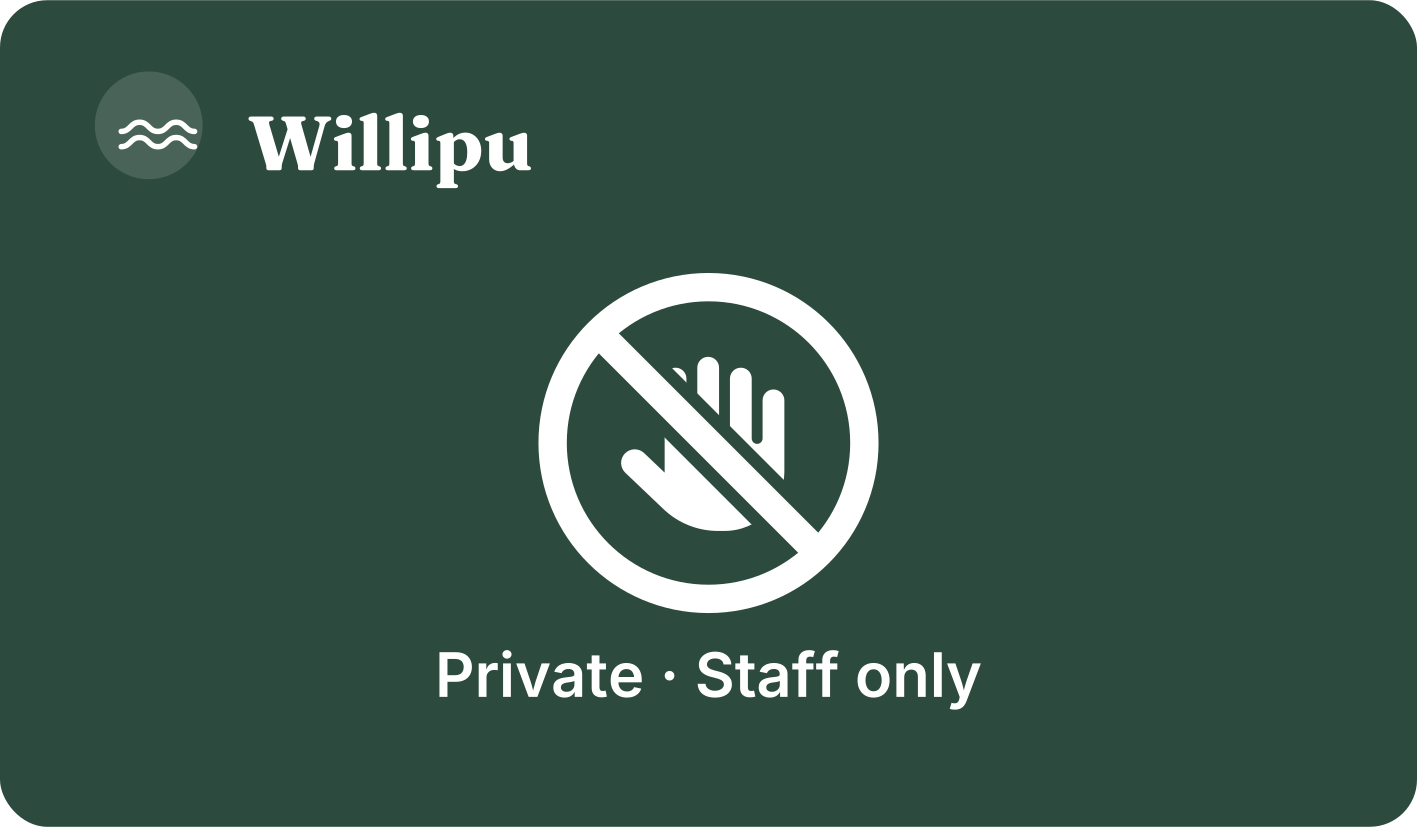
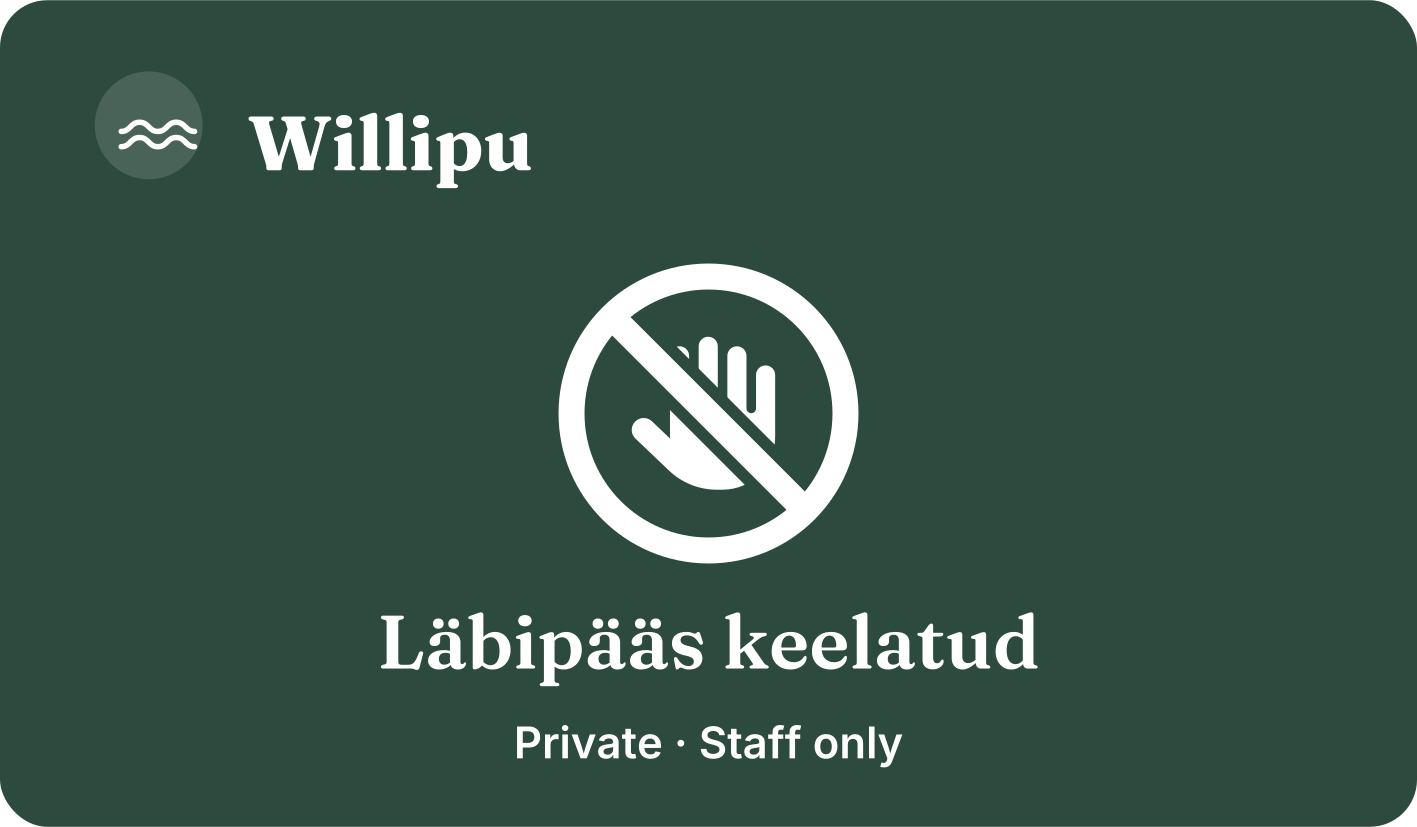
Uksesilt: „Privaatruum" asemel „Läbipääs keelatud"
https://claude.ai/code/session_01DAokWKEoiBPxSJTSGSSjnQ

diff --git a/public/turundus/index.html b/public/turundus/index.html
@@ -70,7 +70,7 @@
   <main>
     <h1>Turundusmaterjalid</h1>
     <p class="intro">Logod, bännerid, reklaamid ja QR-kleebised allalaadimiseks. Leht pole avalikult lingitud ega otsingumootoritele nähtav — jaga ainult otselinki.</p>
-    <section><h2>Logod <small>Logo files</small></h2><a class="file" href="willipu_logo.svg" download="willipu_logo.svg"><span class="thumb"><span class="ext">SVG</span></span><span class="meta"><strong>Logo, värviline — vektor (SVG)</strong><small>willipu_logo.svg · 2 KB</small></span><span class="dl">⬇</span></a><a class="file" href="willipu_logo_white.svg" download="willipu_logo_white.svg"><span class="thumb"><span class="ext">SVG</span></span><span class="meta"><strong>Logo, valge — vektor (SVG)</strong><small>willipu_logo_white.svg · 2 KB</small></span><span class="dl">⬇</span></a><a class="file" href="willipu_logo.pdf" download="willipu_logo.pdf"><span class="thumb"><span class="ext">PDF</span></span><span class="meta"><strong>Logo — vektor (PDF)</strong><small>willipu_logo.pdf · 3 KB</small></span><span class="dl">⬇</span></a><a class="file" href="willipu_logo.png" download="willipu_logo.png"><span class="thumb"><img src="willipu_logo.png" loading="lazy" alt=""></span><span class="meta"><strong>Logo, värviline — läbipaistev PNG</strong><small>willipu_logo.png · 28 KB</small></span><span class="dl">⬇</span></a><a class="file" href="willipu_logo_white.png" download="willipu_logo_white.png"><span class="thumb"><img src="willipu_logo_white.png" loading="lazy" alt=""></span><span class="meta"><strong>Logo, valge — läbipaistev PNG</strong><small>willipu_logo_white.png · 24 KB</small></span><span class="dl">⬇</span></a></section><section><h2>Bännerid <small>Print banners · 2200×1000 mm</small></h2><a class="file" href="willipu_banner_2200x1000.pdf" download="willipu_banner_2200x1000.pdf"><span class="thumb"><span class="ext">PDF</span></span><span class="meta"><strong>Suur bänner 1 — trükifail (PDF)</strong><small>willipu_banner_2200x1000.pdf · 391 KB</small></span><span class="dl">⬇</span></a><a class="file" href="willipu_banner_2.pdf" download="willipu_banner_2.pdf"><span class="thumb"><span class="ext">PDF</span></span><span class="meta"><strong>Suur bänner 2 — trükifail (PDF)</strong><small>willipu_banner_2.pdf · 413 KB</small></span><span class="dl">⬇</span></a></section><section><h2>Facebook <small>Social media images</small></h2><a class="file" href="willipu_facebook_cover.jpg" download="willipu_facebook_cover.jpg"><span class="thumb"><img src="willipu_facebook_cover.jpg" loading="lazy" alt=""></span><span class="meta"><strong>Kaanefoto · 1640×624</strong><small>willipu_facebook_cover.jpg · 277 KB</small></span><span class="dl">⬇</span></a><a class="file" href="willipu_facebook_profile.jpg" download="willipu_facebook_profile.jpg"><span class="thumb"><img src="willipu_facebook_profile.jpg" loading="lazy" alt=""></span><span class="meta"><strong>Profiilipilt · 800×800</strong><small>willipu_facebook_profile.jpg · 63 KB</small></span><span class="dl">⬇</span></a><a class="file" href="willipu_fb_ad_1080.jpg" download="willipu_fb_ad_1080.jpg"><span class="thumb"><img src="willipu_fb_ad_1080.jpg" loading="lazy" alt=""></span><span class="meta"><strong>Reklaam · 1080×1080</strong><small>willipu_fb_ad_1080.jpg · 299 KB</small></span><span class="dl">⬇</span></a><a class="file" href="willipu_fb_ad_karavan.jpg" download="willipu_fb_ad_karavan.jpg"><span class="thumb"><img src="willipu_fb_ad_karavan.jpg" loading="lazy" alt=""></span><span class="meta"><strong>Karavani reklaam · 1080×1350</strong><small>willipu_fb_ad_karavan.jpg · 300 KB</small></span><span class="dl">⬇</span></a><a class="file" href="willipu_fb_ad_kar1.jpg" download="willipu_fb_ad_kar1.jpg"><span class="thumb"><img src="willipu_fb_ad_kar1.jpg" loading="lazy" alt=""></span><span class="meta"><strong>Karavani reklaam, taust 1 · 1080×1350</strong><small>willipu_fb_ad_kar1.jpg · 301 KB</small></span><span class="dl">⬇</span></a><a class="file" href="willipu_fb_ad_kar2.jpg" download="willipu_fb_ad_kar2.jpg"><span class="thumb"><img src="willipu_fb_ad_kar2.jpg" loading="lazy" alt=""></span><span class="meta"><strong>Karavani reklaam, taust 2 · 1080×1350</strong><small>willipu_fb_ad_kar2.jpg · 282 KB</small></span><span class="dl">⬇</span></a><a class="file" href="willipu_fb_ad_kar3.jpg" download="willipu_fb_ad_kar3.jpg"><span class="thumb"><img src="willipu_fb_ad_kar3.jpg" loading="lazy" alt=""></span><span class="meta"><strong>Karavani reklaam, taust 3 · 1080×1350</strong><small>willipu_fb_ad_kar3.jpg · 442 KB</small></span><span class="dl">⬇</span></a></section><section><h2>QR-kleebised · Pesumasin <small>willipu.ee/wash → juhend/pesumasin/</small></h2><a class="file" href="willipu_kleebis_pesumasin.pdf" download="willipu_kleebis_pesumasin.pdf"><span class="thumb"><span class="ext">PDF</span></span><span class="meta"><strong>Kleebis 120×120 mm — trükifail (vektor-PDF)</strong><small>willipu_kleebis_pesumasin.pdf · 60 KB</small></span><span class="dl">⬇</span></a><a class="file" href="willipu_kleebis_pesumasin.svg" download="willipu_kleebis_pesumasin.svg"><span class="thumb"><span class="ext">SVG</span></span><span class="meta"><strong>Kleebis — vektor (SVG)</strong><small>willipu_kleebis_pesumasin.svg · 79 KB</small></span><span class="dl">⬇</span></a><a class="file" href="willipu_kleebis_pesumasin.png" download="willipu_kleebis_pesumasin.png"><span class="thumb"><img src="willipu_kleebis_pesumasin.png" loading="lazy" alt=""></span><span class="meta"><strong>Kleebis — eelvaade (PNG, 300 dpi)</strong><small>willipu_kleebis_pesumasin.png · 68 KB</small></span><span class="dl">⬇</span></a><a class="file" href="willipu_qr_pesumasin.svg" download="willipu_qr_pesumasin.svg"><span class="thumb"><span class="ext">SVG</span></span><span class="meta"><strong>Ainult QR-kood — vektor (SVG)</strong><small>willipu_qr_pesumasin.svg · 14 KB</small></span><span class="dl">⬇</span></a><a class="file" href="willipu_qr_pesumasin.png" download="willipu_qr_pesumasin.png"><span class="thumb"><img src="willipu_qr_pesumasin.png" loading="lazy" alt=""></span><span class="meta"><strong>Ainult QR-kood (PNG)</strong><small>willipu_qr_pesumasin.png · 4 KB</small></span><span class="dl">⬇</span></a></section><section><h2>QR-kleebised · Pesukuivati <small>willipu.ee/dry → juhend/pesukuivati/</small></h2><a class="file" href="willipu_kleebis_pesukuivati.pdf" download="willipu_kleebis_pesukuivati.pdf"><span class="thumb"><span class="ext">PDF</span></span><span class="meta"><strong>Kleebis 120×120 mm — trükifail (vektor-PDF)</strong><small>willipu_kleebis_pesukuivati.pdf · 57 KB</small></span><span class="dl">⬇</span></a><a class="file" href="willipu_kleebis_pesukuivati.svg" download="willipu_kleebis_pesukuivati.svg"><span class="thumb"><span class="ext">SVG</span></span><span class="meta"><strong>Kleebis — vektor (SVG)</strong><small>willipu_kleebis_pesukuivati.svg · 76 KB</small></span><span class="dl">⬇</span></a><a class="file" href="willipu_kleebis_pesukuivati.png" download="willipu_kleebis_pesukuivati.png"><span class="thumb"><img src="willipu_kleebis_pesukuivati.png" loading="lazy" alt=""></span><span class="meta"><strong>Kleebis — eelvaade (PNG, 300 dpi)</strong><small>willipu_kleebis_pesukuivati.png · 68 KB</small></span><span class="dl">⬇</span></a><a class="file" href="willipu_qr_pesukuivati.svg" download="willipu_qr_pesukuivati.svg"><span class="thumb"><span class="ext">SVG</span></span><span class="meta"><strong>Ainult QR-kood — vektor (SVG)</strong><small>willipu_qr_pesukuivati.svg · 14 KB</small></span><span class="dl">⬇</span></a><a class="file" href="willipu_qr_pesukuivati.png" download="willipu_qr_pesukuivati.png"><span class="thumb"><img src="willipu_qr_pesukuivati.png" loading="lazy" alt=""></span><span class="meta"><strong>Ainult QR-kood (PNG)</strong><small>willipu_qr_pesukuivati.png · 4 KB</small></span><span class="dl">⬇</span></a></section><section><h2>QR-kleebised · Saun <small>willipu.ee/juhend/saun/</small></h2><a class="file" href="willipu_kleebis_saun.pdf" download="willipu_kleebis_saun.pdf"><span class="thumb"><span class="ext">PDF</span></span><span class="meta"><strong>Kleebis 80×100 mm — trükifail (vektor-PDF)</strong><small>willipu_kleebis_saun.pdf · 35 KB</small></span><span class="dl">⬇</span></a><a class="file" href="willipu_kleebis_saun.svg" download="willipu_kleebis_saun.svg"><span class="thumb"><span class="ext">SVG</span></span><span class="meta"><strong>Kleebis — vektor (SVG)</strong><small>willipu_kleebis_saun.svg · 52 KB</small></span><span class="dl">⬇</span></a><a class="file" href="willipu_kleebis_saun.png" download="willipu_kleebis_saun.png"><span class="thumb"><img src="willipu_kleebis_saun.png" loading="lazy" alt=""></span><span class="meta"><strong>Kleebis — eelvaade (PNG, 300 dpi)</strong><small>willipu_kleebis_saun.png · 35 KB</small></span><span class="dl">⬇</span></a><a class="file" href="willipu_qr_saun.svg" download="willipu_qr_saun.svg"><span class="thumb"><span class="ext">SVG</span></span><span class="meta"><strong>Ainult QR-kood — vektor (SVG)</strong><small>willipu_qr_saun.svg · 19 KB</small></span><span class="dl">⬇</span></a><a class="file" href="willipu_qr_saun.png" download="willipu_qr_saun.png"><span class="thumb"><img src="willipu_qr_saun.png" loading="lazy" alt=""></span><span class="meta"><strong>Ainult QR-kood (PNG)</strong><small>willipu_qr_saun.png · 4 KB</small></span><span class="dl">⬇</span></a></section><section><h2>Uksesildid · Privaatruum <small>Door signs · 120×70 mm</small></h2><a class="file" href="willipu_kleebis_privaatruum.pdf" download="willipu_kleebis_privaatruum.pdf"><span class="thumb"><span class="ext">PDF</span></span><span class="meta"><strong>Privaatruumi uksesilt 120×70 mm — trükifail (vektor-PDF)</strong><small>willipu_kleebis_privaatruum.pdf · 11 KB</small></span><span class="dl">⬇</span></a><a class="file" href="willipu_kleebis_privaatruum.svg" download="willipu_kleebis_privaatruum.svg"><span class="thumb"><span class="ext">SVG</span></span><span class="meta"><strong>Privaatruumi uksesilt — vektor (SVG)</strong><small>willipu_kleebis_privaatruum.svg · 13 KB</small></span><span class="dl">⬇</span></a><a class="file" href="willipu_kleebis_privaatruum.png" download="willipu_kleebis_privaatruum.png"><span class="thumb"><img src="willipu_kleebis_privaatruum.png" loading="lazy" alt=""></span><span class="meta"><strong>Privaatruumi uksesilt — eelvaade (PNG, 300 dpi)</strong><small>willipu_kleebis_privaatruum.png · 52 KB</small></span><span class="dl">⬇</span></a></section><section><h2>Infotahvlid <small>Info boards · A3, 297×420 mm</small></h2><a class="file" href="willipu_tahvel_purgimine.pdf" download="willipu_tahvel_purgimine.pdf"><span class="thumb"><span class="ext">PDF</span></span><span class="meta"><strong>Purgimisplatsi infotahvel A3 — trükifail (vektor-PDF)</strong><small>willipu_tahvel_purgimine.pdf · 99 KB</small></span><span class="dl">⬇</span></a><a class="file" href="willipu_tahvel_purgimine.svg" download="willipu_tahvel_purgimine.svg"><span class="thumb"><span class="ext">SVG</span></span><span class="meta"><strong>Purgimisplatsi infotahvel — vektor (SVG)</strong><small>willipu_tahvel_purgimine.svg · 118 KB</small></span><span class="dl">⬇</span></a><a class="file" href="willipu_tahvel_purgimine.png" download="willipu_tahvel_purgimine.png"><span class="thumb"><img src="willipu_tahvel_purgimine.png" loading="lazy" alt=""></span><span class="meta"><strong>Purgimisplatsi infotahvel — eelvaade (PNG)</strong><small>willipu_tahvel_purgimine.png · 167 KB</small></span><span class="dl">⬇</span></a></section><section><h2>Piktogrammid <small>Site pictograms · 19 tk, SVG + PNG</small></h2>
+    <section><h2>Logod <small>Logo files</small></h2><a class="file" href="willipu_logo.svg" download="willipu_logo.svg"><span class="thumb"><span class="ext">SVG</span></span><span class="meta"><strong>Logo, värviline — vektor (SVG)</strong><small>willipu_logo.svg · 2 KB</small></span><span class="dl">⬇</span></a><a class="file" href="willipu_logo_white.svg" download="willipu_logo_white.svg"><span class="thumb"><span class="ext">SVG</span></span><span class="meta"><strong>Logo, valge — vektor (SVG)</strong><small>willipu_logo_white.svg · 2 KB</small></span><span class="dl">⬇</span></a><a class="file" href="willipu_logo.pdf" download="willipu_logo.pdf"><span class="thumb"><span class="ext">PDF</span></span><span class="meta"><strong>Logo — vektor (PDF)</strong><small>willipu_logo.pdf · 3 KB</small></span><span class="dl">⬇</span></a><a class="file" href="willipu_logo.png" download="willipu_logo.png"><span class="thumb"><img src="willipu_logo.png" loading="lazy" alt=""></span><span class="meta"><strong>Logo, värviline — läbipaistev PNG</strong><small>willipu_logo.png · 28 KB</small></span><span class="dl">⬇</span></a><a class="file" href="willipu_logo_white.png" download="willipu_logo_white.png"><span class="thumb"><img src="willipu_logo_white.png" loading="lazy" alt=""></span><span class="meta"><strong>Logo, valge — läbipaistev PNG</strong><small>willipu_logo_white.png · 24 KB</small></span><span class="dl">⬇</span></a></section><section><h2>Bännerid <small>Print banners · 2200×1000 mm</small></h2><a class="file" href="willipu_banner_2200x1000.pdf" download="willipu_banner_2200x1000.pdf"><span class="thumb"><span class="ext">PDF</span></span><span class="meta"><strong>Suur bänner 1 — trükifail (PDF)</strong><small>willipu_banner_2200x1000.pdf · 391 KB</small></span><span class="dl">⬇</span></a><a class="file" href="willipu_banner_2.pdf" download="willipu_banner_2.pdf"><span class="thumb"><span class="ext">PDF</span></span><span class="meta"><strong>Suur bänner 2 — trükifail (PDF)</strong><small>willipu_banner_2.pdf · 413 KB</small></span><span class="dl">⬇</span></a></section><section><h2>Facebook <small>Social media images</small></h2><a class="file" href="willipu_facebook_cover.jpg" download="willipu_facebook_cover.jpg"><span class="thumb"><img src="willipu_facebook_cover.jpg" loading="lazy" alt=""></span><span class="meta"><strong>Kaanefoto · 1640×624</strong><small>willipu_facebook_cover.jpg · 277 KB</small></span><span class="dl">⬇</span></a><a class="file" href="willipu_facebook_profile.jpg" download="willipu_facebook_profile.jpg"><span class="thumb"><img src="willipu_facebook_profile.jpg" loading="lazy" alt=""></span><span class="meta"><strong>Profiilipilt · 800×800</strong><small>willipu_facebook_profile.jpg · 63 KB</small></span><span class="dl">⬇</span></a><a class="file" href="willipu_fb_ad_1080.jpg" download="willipu_fb_ad_1080.jpg"><span class="thumb"><img src="willipu_fb_ad_1080.jpg" loading="lazy" alt=""></span><span class="meta"><strong>Reklaam · 1080×1080</strong><small>willipu_fb_ad_1080.jpg · 299 KB</small></span><span class="dl">⬇</span></a><a class="file" href="willipu_fb_ad_karavan.jpg" download="willipu_fb_ad_karavan.jpg"><span class="thumb"><img src="willipu_fb_ad_karavan.jpg" loading="lazy" alt=""></span><span class="meta"><strong>Karavani reklaam · 1080×1350</strong><small>willipu_fb_ad_karavan.jpg · 300 KB</small></span><span class="dl">⬇</span></a><a class="file" href="willipu_fb_ad_kar1.jpg" download="willipu_fb_ad_kar1.jpg"><span class="thumb"><img src="willipu_fb_ad_kar1.jpg" loading="lazy" alt=""></span><span class="meta"><strong>Karavani reklaam, taust 1 · 1080×1350</strong><small>willipu_fb_ad_kar1.jpg · 301 KB</small></span><span class="dl">⬇</span></a><a class="file" href="willipu_fb_ad_kar2.jpg" download="willipu_fb_ad_kar2.jpg"><span class="thumb"><img src="willipu_fb_ad_kar2.jpg" loading="lazy" alt=""></span><span class="meta"><strong>Karavani reklaam, taust 2 · 1080×1350</strong><small>willipu_fb_ad_kar2.jpg · 282 KB</small></span><span class="dl">⬇</span></a><a class="file" href="willipu_fb_ad_kar3.jpg" download="willipu_fb_ad_kar3.jpg"><span class="thumb"><img src="willipu_fb_ad_kar3.jpg" loading="lazy" alt=""></span><span class="meta"><strong>Karavani reklaam, taust 3 · 1080×1350</strong><small>willipu_fb_ad_kar3.jpg · 442 KB</small></span><span class="dl">⬇</span></a></section><section><h2>QR-kleebised · Pesumasin <small>willipu.ee/wash → juhend/pesumasin/</small></h2><a class="file" href="willipu_kleebis_pesumasin.pdf" download="willipu_kleebis_pesumasin.pdf"><span class="thumb"><span class="ext">PDF</span></span><span class="meta"><strong>Kleebis 120×120 mm — trükifail (vektor-PDF)</strong><small>willipu_kleebis_pesumasin.pdf · 60 KB</small></span><span class="dl">⬇</span></a><a class="file" href="willipu_kleebis_pesumasin.svg" download="willipu_kleebis_pesumasin.svg"><span class="thumb"><span class="ext">SVG</span></span><span class="meta"><strong>Kleebis — vektor (SVG)</strong><small>willipu_kleebis_pesumasin.svg · 79 KB</small></span><span class="dl">⬇</span></a><a class="file" href="willipu_kleebis_pesumasin.png" download="willipu_kleebis_pesumasin.png"><span class="thumb"><img src="willipu_kleebis_pesumasin.png" loading="lazy" alt=""></span><span class="meta"><strong>Kleebis — eelvaade (PNG, 300 dpi)</strong><small>willipu_kleebis_pesumasin.png · 68 KB</small></span><span class="dl">⬇</span></a><a class="file" href="willipu_qr_pesumasin.svg" download="willipu_qr_pesumasin.svg"><span class="thumb"><span class="ext">SVG</span></span><span class="meta"><strong>Ainult QR-kood — vektor (SVG)</strong><small>willipu_qr_pesumasin.svg · 14 KB</small></span><span class="dl">⬇</span></a><a class="file" href="willipu_qr_pesumasin.png" download="willipu_qr_pesumasin.png"><span class="thumb"><img src="willipu_qr_pesumasin.png" loading="lazy" alt=""></span><span class="meta"><strong>Ainult QR-kood (PNG)</strong><small>willipu_qr_pesumasin.png · 4 KB</small></span><span class="dl">⬇</span></a></section><section><h2>QR-kleebised · Pesukuivati <small>willipu.ee/dry → juhend/pesukuivati/</small></h2><a class="file" href="willipu_kleebis_pesukuivati.pdf" download="willipu_kleebis_pesukuivati.pdf"><span class="thumb"><span class="ext">PDF</span></span><span class="meta"><strong>Kleebis 120×120 mm — trükifail (vektor-PDF)</strong><small>willipu_kleebis_pesukuivati.pdf · 57 KB</small></span><span class="dl">⬇</span></a><a class="file" href="willipu_kleebis_pesukuivati.svg" download="willipu_kleebis_pesukuivati.svg"><span class="thumb"><span class="ext">SVG</span></span><span class="meta"><strong>Kleebis — vektor (SVG)</strong><small>willipu_kleebis_pesukuivati.svg · 76 KB</small></span><span class="dl">⬇</span></a><a class="file" href="willipu_kleebis_pesukuivati.png" download="willipu_kleebis_pesukuivati.png"><span class="thumb"><img src="willipu_kleebis_pesukuivati.png" loading="lazy" alt=""></span><span class="meta"><strong>Kleebis — eelvaade (PNG, 300 dpi)</strong><small>willipu_kleebis_pesukuivati.png · 68 KB</small></span><span class="dl">⬇</span></a><a class="file" href="willipu_qr_pesukuivati.svg" download="willipu_qr_pesukuivati.svg"><span class="thumb"><span class="ext">SVG</span></span><span class="meta"><strong>Ainult QR-kood — vektor (SVG)</strong><small>willipu_qr_pesukuivati.svg · 14 KB</small></span><span class="dl">⬇</span></a><a class="file" href="willipu_qr_pesukuivati.png" download="willipu_qr_pesukuivati.png"><span class="thumb"><img src="willipu_qr_pesukuivati.png" loading="lazy" alt=""></span><span class="meta"><strong>Ainult QR-kood (PNG)</strong><small>willipu_qr_pesukuivati.png · 4 KB</small></span><span class="dl">⬇</span></a></section><section><h2>QR-kleebised · Saun <small>willipu.ee/juhend/saun/</small></h2><a class="file" href="willipu_kleebis_saun.pdf" download="willipu_kleebis_saun.pdf"><span class="thumb"><span class="ext">PDF</span></span><span class="meta"><strong>Kleebis 80×100 mm — trükifail (vektor-PDF)</strong><small>willipu_kleebis_saun.pdf · 35 KB</small></span><span class="dl">⬇</span></a><a class="file" href="willipu_kleebis_saun.svg" download="willipu_kleebis_saun.svg"><span class="thumb"><span class="ext">SVG</span></span><span class="meta"><strong>Kleebis — vektor (SVG)</strong><small>willipu_kleebis_saun.svg · 52 KB</small></span><span class="dl">⬇</span></a><a class="file" href="willipu_kleebis_saun.png" download="willipu_kleebis_saun.png"><span class="thumb"><img src="willipu_kleebis_saun.png" loading="lazy" alt=""></span><span class="meta"><strong>Kleebis — eelvaade (PNG, 300 dpi)</strong><small>willipu_kleebis_saun.png · 35 KB</small></span><span class="dl">⬇</span></a><a class="file" href="willipu_qr_saun.svg" download="willipu_qr_saun.svg"><span class="thumb"><span class="ext">SVG</span></span><span class="meta"><strong>Ainult QR-kood — vektor (SVG)</strong><small>willipu_qr_saun.svg · 19 KB</small></span><span class="dl">⬇</span></a><a class="file" href="willipu_qr_saun.png" download="willipu_qr_saun.png"><span class="thumb"><img src="willipu_qr_saun.png" loading="lazy" alt=""></span><span class="meta"><strong>Ainult QR-kood (PNG)</strong><small>willipu_qr_saun.png · 4 KB</small></span><span class="dl">⬇</span></a></section><section><h2>Uksesildid · Läbipääs keelatud <small>Door signs · 120×70 mm</small></h2><a class="file" href="willipu_kleebis_privaatruum.pdf" download="willipu_kleebis_privaatruum.pdf"><span class="thumb"><span class="ext">PDF</span></span><span class="meta"><strong>Uksesilt „Läbipääs keelatud” 120×70 mm — trükifail (vektor-PDF)</strong><small>willipu_kleebis_privaatruum.pdf · 22 KB</small></span><span class="dl">⬇</span></a><a class="file" href="willipu_kleebis_privaatruum.svg" download="willipu_kleebis_privaatruum.svg"><span class="thumb"><span class="ext">SVG</span></span><span class="meta"><strong>Uksesilt „Läbipääs keelatud” — vektor (SVG)</strong><small>willipu_kleebis_privaatruum.svg · 26 KB</small></span><span class="dl">⬇</span></a><a class="file" href="willipu_kleebis_privaatruum.png" download="willipu_kleebis_privaatruum.png"><span class="thumb"><img src="willipu_kleebis_privaatruum.png" loading="lazy" alt=""></span><span class="meta"><strong>Uksesilt „Läbipääs keelatud” — eelvaade (PNG, 300 dpi)</strong><small>willipu_kleebis_privaatruum.png · 65 KB</small></span><span class="dl">⬇</span></a></section><section><h2>Infotahvlid <small>Info boards · A3, 297×420 mm</small></h2><a class="file" href="willipu_tahvel_purgimine.pdf" download="willipu_tahvel_purgimine.pdf"><span class="thumb"><span class="ext">PDF</span></span><span class="meta"><strong>Purgimisplatsi infotahvel A3 — trükifail (vektor-PDF)</strong><small>willipu_tahvel_purgimine.pdf · 99 KB</small></span><span class="dl">⬇</span></a><a class="file" href="willipu_tahvel_purgimine.svg" download="willipu_tahvel_purgimine.svg"><span class="thumb"><span class="ext">SVG</span></span><span class="meta"><strong>Purgimisplatsi infotahvel — vektor (SVG)</strong><small>willipu_tahvel_purgimine.svg · 118 KB</small></span><span class="dl">⬇</span></a><a class="file" href="willipu_tahvel_purgimine.png" download="willipu_tahvel_purgimine.png"><span class="thumb"><img src="willipu_tahvel_purgimine.png" loading="lazy" alt=""></span><span class="meta"><strong>Purgimisplatsi infotahvel — eelvaade (PNG)</strong><small>willipu_tahvel_purgimine.png · 167 KB</small></span><span class="dl">⬇</span></a></section><section><h2>Piktogrammid <small>Site pictograms · 19 tk, SVG + PNG</small></h2>
 <a class="file" href="piktogrammid/willipu_piktogrammid.zip" download="willipu_piktogrammid.zip">
 <span class="thumb"><span class="ext">ZIP</span></span>
 <span class="meta"><strong>Kõik piktogrammid ühe failina</strong><small>willipu_piktogrammid.zip · 126 KB</small></span>

diff --git a/make_privaatruum_kleebis.py b/make_privaatruum_kleebis.py
@@ -53,7 +53,8 @@ def placed_text_left(font_file, text, em_mm, baseline_y, fill, left_x=0):
     _, frag = text_outline(font_file, text, em_mm)
     return f'<g transform="translate({left_x:.3f} {baseline_y:.3f})" fill="{fill}">{frag}</g>'
 
-en = placed_text("inter-600.ttf", "Private · Staff only", 5.2, 59.0, "#ffffff")
+et = placed_text("fraunces-600.ttf", "Läbipääs keelatud", 6.4, 56.6, "#ffffff")
+en = placed_text("inter-600.ttf", "Private · Staff only", 3.7, 64.2, "#ffffff")
 brand = placed_text_left("fraunces-700.ttf", "Willipu", 6.5, 14.4, "#ffffff", left_x=21.0)
 
 svg = f'''<svg xmlns="http://www.w3.org/2000/svg" width="120mm" height="70mm" viewBox="0 0 120 70">
@@ -67,12 +68,13 @@ svg = f'''<svg xmlns="http://www.w3.org/2000/svg" width="120mm" height="70mm" vi
   </g>
   {brand}
   <!-- prohibition pictogram: stop hand (Font Awesome Free, CC BY 4.0) in white crossed ring -->
-  <g transform="translate(52.6 30.2) scale(0.0288)" fill="#ffffff">
+  <g transform="translate(53.5 28.5) scale(0.0253)" fill="#ffffff">
     <path d="M288 32c0-17.7-14.3-32-32-32s-32 14.3-32 32l0 208c0 8.8-7.2 16-16 16s-16-7.2-16-16l0-176c0-17.7-14.3-32-32-32s-32 14.3-32 32l0 272c0 1.5 0 3.1 .1 4.6L67.6 283c-16-15.2-41.3-14.6-56.6 1.4S-3.6 325.7 12.4 341L124.8 448c43.1 41.1 100.4 64 160 64l19.2 0c97.2 0 176-78.8 176-176l0-208c0-17.7-14.3-32-32-32s-32 14.3-32 32l0 112c0 8.8-7.2 16-16 16s-16-7.2-16-16l0-176c0-17.7-14.3-32-32-32s-32 14.3-32 32l0 176c0 8.8-7.2 16-16 16s-16-7.2-16-16l0-208z"/>
   </g>
-  <line x1="50.7" y1="28.2" x2="69.3" y2="46.8" stroke="{GREEN_HEX}" stroke-width="4.6"/>
-  <line x1="50.7" y1="28.2" x2="69.3" y2="46.8" stroke="#ffffff" stroke-width="2.4"/>
-  <circle cx="60" cy="37.5" r="13.2" fill="none" stroke="#ffffff" stroke-width="2.4"/>
+  <line x1="51.8" y1="26.8" x2="68.2" y2="43.2" stroke="{GREEN_HEX}" stroke-width="4.2"/>
+  <line x1="51.8" y1="26.8" x2="68.2" y2="43.2" stroke="#ffffff" stroke-width="2.2"/>
+  <circle cx="60" cy="35" r="11.6" fill="none" stroke="#ffffff" stroke-width="2.2"/>
+  {et}
   {en}
 </svg>'''
 
